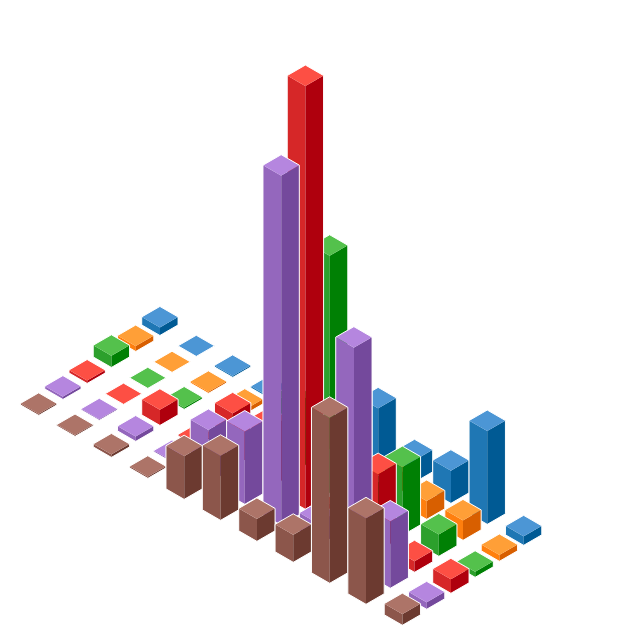
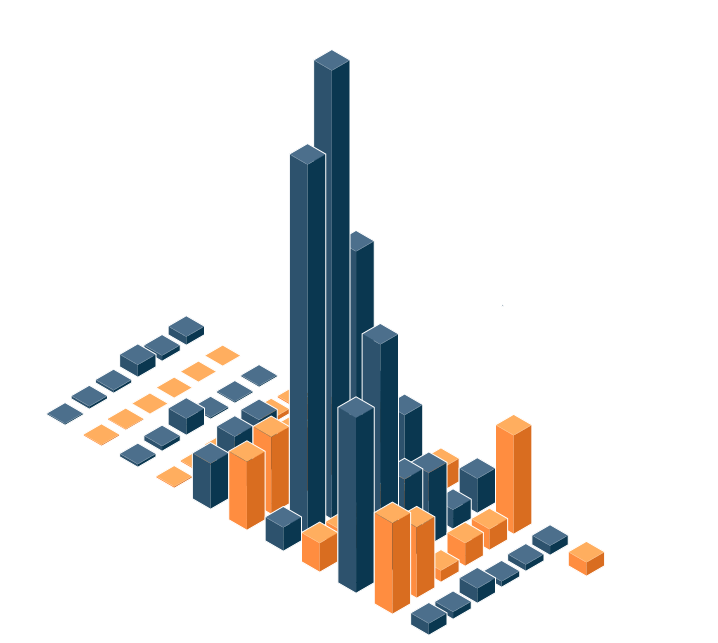
major changes

Changed region(s): [[0.0299, 0.0623, 0.8677, 0.9969]]

diff --git a/2016/isometric-backlinks/index.html b/2016/isometric-backlinks/index.html
@@ -11,6 +11,9 @@
     <script src="../lib/d3.slider.js"></script>
     <script src="../lib/d3-tip.js"></script>
     <script src="js/app.js"></script>
+    <link rel="stylesheet" href="https://maxcdn.bootstrapcdn.com/font-awesome/4.6.3/css/font-awesome.min.css">
+    <script src="//platform.twitter.com/widgets.js" charset="utf-8"></script>
+    <script async defer src="https://buttons.github.io/buttons.js"></script>
 
     <style>
         body {
@@ -34,6 +37,7 @@
 
         #slider {
             margin: auto;
+            width: 50%;
         }
 
         #desc-panel {
@@ -81,50 +85,108 @@
             font-weight: bold;
         }
 
+        .left-wrap {
+            width: 25%;
+            display: inline-block;
+        }
+
+        .right-wrap {
+            width: 70%;
+            display: inline-block;
+        }
+
+        .left-wrap span {
+            float: right;
+        }
+
+        .right-wrap select {
+            text-align: center;
+        }
+
+        b {
+            color: #ff8d40;
+        }
+
+        footer {
+            position: absolute;
+            bottom: 0;
+            left: 0;
+            background-color: #ff8d40;
+            width: 100%;
+            text-align: center;
+            z-index: 9999;
+            padding-top: 5px;
+            padding-bottom: 5px;
+        }
+
+        #desc-wrapper {
+            position: relative;
+            left: 50%;
+            top: 40%;
+            transform: translate(-50%, -50%);
+        }
+
     </style>
 
 </head>
 <body>
+<footer>
+    Made with <i class="fa fa-heart" aria-hidden="true"></i> by
+    <a href="https://twitter.com/TauOmicronMu" class="twitter-follow-button" data-show-count="false">@TauOmicronMu</a>
+    and
+    <a class="github-button" href="https://github.com/SamTebbs33" aria-label="Follow @SamTebbs33 on GitHub">SamTebbs33</a>
+</footer>
     <img id="logo" src="../res/majestic-logo-black-trans-small.png"/>
     <section id="content-area">
         <div id="content-wrap">
             <svg></svg>
             <!-- <br><br>
             <div id="slider2" class="d3-slider d3-slider-vertical"></div> -->
-            <div id="slider" class="d3-slider d3-slider-horizontal" style="width: 50%;"></div>
+            <div id="slider" class="d3-slider d3-slider-horizontal"></div>
         </div>
     </section>
     <section id="desc-panel">
-        <h1>Link projection</h1>
-        <h3>Shows <a href="https://developer-support.majestic.com/api/commands/get-back-links-history.shtml" target="_blank">backlink</a> history from December 2010 to May 2016</h3>
-        <div id="dropdown-wrapper">
-            <span>Site</span>&emsp;
-            <select id="dropdown" onchange="onDropdownChange()">
-                <option value="bitbucket.org" selected>Bitbucket</option>
-                <option value="github.com">GitHub</option>
-                <option value="amazon.co.uk">Amazon</option>
-                <option value="majestic.com">Majestic</option>
-                <option value="bbc.co.uk">BBC</option>
-                <option value="google.com">Google</option>
-                <option value="ox.ac.uk">Oxford University</option>
-                <option value="reddit.com">Reddit</option>
-            </select>
-            <br>
-            <span>Link type</span>&emsp;
-            <select id="dropdown2" onchange="onDropdownChange()">
-                <option value="TextLink">Text</option>
-                <option value="ImageLink">Image</option>
-                <option value="Redirect">Redirect</option>
-                <option value="Frame">Frame</option>
-                <option value="Mention">Mention</option>
-                <option value="NoFollow">No follow</option>
-                <option value="Deleted">Deleted</option>
-                <option value="TotalLinks" selected>Total</option>
-                <option value="CrawledPages">Crawled</option>
-                <option value="RefDomains">Ref domains</option>
-                <option value="MentionDomains">Mention domains</option>
-                <option value="DomainURLs">Domain URLs</option>
-            </select>
+        <div id="desc-wrapper">
+            <h1>Backlink History</h1>
+            <div id="dropdown-wrapper">
+                <div class="left-wrap">
+                    <span>Site</span>&emsp;
+                </div>
+                <div class="right-wrap">
+                    <select id="dropdown" onchange="onDropdownChange()">
+                        <option value="bitbucket.org" selected>Bitbucket</option>
+                        <option value="github.com">GitHub</option>
+                        <option value="amazon.co.uk">Amazon</option>
+                        <option value="majestic.com">Majestic</option>
+                        <option value="bbc.co.uk">BBC</option>
+                        <option value="google.com">Google</option>
+                        <option value="ox.ac.uk">Oxford University</option>
+                        <option value="reddit.com">Reddit</option>
+                    </select>
+                </div>
+                <br>
+                <div class="left-wrap">
+                    <span>Link type</span>&emsp;
+                </div>
+                <div class="right-wrap">
+                    <select id="dropdown2" onchange="onDropdownChange()">
+                        <option value="TextLink">Text</option>
+                        <option value="ImageLink">Image</option>
+                        <option value="Redirect">Redirect</option>
+                        <option value="Frame">Frame</option>
+                        <option value="Mention">Mention</option>
+                        <option value="NoFollow">No follow</option>
+                        <option value="Deleted">Deleted</option>
+                        <option value="TotalLinks" selected>Total</option>
+                        <option value="CrawledPages">Crawled</option>
+                        <option value="RefDomains">Ref domains</option>
+                        <option value="MentionDomains">Mention domains</option>
+                        <option value="DomainURLs">Domain URLs</option>
+                    </select>
+                </div>
+            </div>
+            <p>This visualisation represents the <b>total backlinks found</b> for a given site in each month between December 2010 and June 2016.</p>
+            <p>The <b>Site</b> dropdown lets you view different sites, and the <b>Link Type</b> lets you view different types of backlink.</p>
         </div>
     </section>
     <script src="js/projection.js"></script>

diff --git a/2016/isometric-backlinks/js/projection.js b/2016/isometric-backlinks/js/projection.js
@@ -1,13 +1,12 @@
-/**
- * Created by samuelt on 02/09/2016.
- */
 
-var isoWidth = 6, isoLength = 11;
+var isoWidth = 6, isoLength = 12;
 var dataOffset = 54;
 var data = null;
 
-d3.select('#slider').call(d3.slider().value(isoLength).axis(d3.svg.axis().orient("top").ticks(10)).min(1).max(11).step(1).on("slide", function (evt, val) {
-    isoLength = val;
+var sliderAxis = d3.svg.axis().scale(d3.time.scale().range([0, 6])).ticks(8).orient("top");
+
+d3.select('#slider').call(d3.slider().value(isoLength / 2).axis(sliderAxis).min(0.5).max(6).step(0.5).on("slide", function (evt, val) {
+    isoLength = val * 2;
     draw();
 }));
 
@@ -27,10 +26,10 @@ function onDropdownChange() {
 }
 
 function draw() {
-    var L, PAD, iso_data, enter_pipedons, height, iso_layout, isometric, parallelepipedon, path_generator, pipedons, svg, vis, width, y_color;
+    var L, PAD, iso_data, enter_pipedons, height, iso_layout, isometric, parallelepipedon, path_generator, pipedons, svg, vis, width, id_colour;
 
-    var width = $(document).width() * 0.7;
-    var height = $(document).height() * 0.7;
+    width = $(document).width() * 0.7;
+    height = $(document).height() * 0.7;
 
     var svg = d3.select("svg").attr("width", width)
         .attr("height", height);;
@@ -94,7 +93,9 @@ function draw() {
             }).join('L') + 'z';
     };
 
-    y_color = d3.scale.category10();
+    id_colour = function (id) {
+        return Math.floor(id / isoWidth) % 2 === 0 ? "#2d526d" : "#ff8d40"
+    };
     L = 30;
     PAD = 9;
 
@@ -105,12 +106,12 @@ function draw() {
             if (val.count > max) max = val.count;
         }
     }
-    console.log(max);
 
     iso_data = d3.range(isoLength * isoWidth).map(function(i) {
         var elem = data[i + dataOffset];
         if(!!elem) {
             return {
+                id: i,
                 x: (i % 6) * L + 200,
                 y: Math.floor(i / 6) * L + (2 * i) - 165,
                 dx: L - PAD,
@@ -119,7 +120,7 @@ function draw() {
                 count: !!elem ? elem.count : 0,
                 dz: !!elem ? scale(elem.count, max + 1,  height / 10) : 0
             };
-        } else return {x: -1, y: -1, dx: -1, dy: -1, dz: -1};
+        } else return {id: 0, x: -1, y: -1, dx: -1, dy: -1, dz: -1};
     });
 
     iso_layout(iso_data, parallelepipedon);
@@ -151,7 +152,7 @@ function draw() {
             return path_generator(d.iso.face_left);
         },
         fill: function(d) {
-            return y_color(d.x);
+            return id_colour(d.id);
         }
     });
 

diff --git a/2016/site-host-map/index.html b/2016/site-host-map/index.html
@@ -4,7 +4,11 @@
     html, body {
         margin: 0;
         padding: 0;
-        overflow: hidden
+        overflow: hidden;
+        font-family: Arial, sans-serif;
+    }
+
+    footer, #desc-area {
         color: #fff;
     }
 
@@ -38,12 +42,25 @@
         background-color: #2D526D;
         position: absolute;
         right: 0;
+        text-align: center;
     }
 
     #logo {
         position: absolute;
         top: 1%;
         left: 1%;
+    }
+
+    footer {
+        position: absolute;
+        bottom: 0;
+        left: 0;
+        background-color: #ff8d40;
+        width: 100%;
+        text-align: center;
+        z-index: 9999;
+        padding-top: 5px;
+        padding-bottom: 5px;
     }
 
 </style>
@@ -54,11 +71,21 @@
     <script src="../lib/topojson.min.js"></script>
     <script src="../lib/datamap.js"></script>
     <script src="js/d3.slider.js"></script>
+    <link rel="stylesheet" href="https://maxcdn.bootstrapcdn.com/font-awesome/4.6.3/css/font-awesome.min.css">
+    <script src="//platform.twitter.com/widgets.js" charset="utf-8"></script>
+    <script async defer src="https://buttons.github.io/buttons.js"></script>
     <!-- <script src="lib/papaparse.min.js"></script>
     <script src="lib/FileSaver.min.js"></script>
     <script src="js/convert.js"></script> -->
 </head>
 <body>
+<footer>
+    Made with <i class="fa fa-heart" aria-hidden="true"></i> by
+    <a href="https://twitter.com/TauOmicronMu" class="twitter-follow-button" data-show-count="false">@TauOmicronMu</a>
+    and
+    <a class="github-button" href="https://github.com/SamTebbs33" aria-label="Follow @SamTebbs33 on GitHub">SamTebbs33</a>
+</footer>
+
 
 <img id="logo" src="../res/majestic-logo-black-trans-small.png"/>
 
@@ -67,7 +94,6 @@
     <div id="slider" class="d3-slider-horizontal"></div>
 </section>
 <section id="desc-area">
-sgdfsgsdfg
 </section>
 
 <script src="js/app.js"></script>

diff --git a/2016/index.html b/2016/index.html
@@ -10,6 +10,8 @@
             background-color: #fff;
             color: #fff;
             overflow: hidden;
+            overflow-y: hidden;
+            overflow-x: hidden;
         }
 
         header {
@@ -77,6 +79,10 @@
     <link href="font-awesome.min.css" rel="stylesheet">
 
     <link href="template/generic.css" rel="stylesheet" type="text/css"/>
+
+    <link rel="stylesheet" href="https://maxcdn.bootstrapcdn.com/font-awesome/4.6.3/css/font-awesome.min.css">
+    <script src="//platform.twitter.com/widgets.js" charset="utf-8"></script>
+    <script async defer src="https://buttons.github.io/buttons.js"></script>
 </head>
 
 <body>
@@ -85,7 +91,10 @@
 </header>
 
 <footer>
-    Made with <i class="fa fa-heart" aria-hidden="true"></i> by TauOmicronMu & SamTebbs33
+    Made with <i class="fa fa-heart" aria-hidden="true"></i> by
+    <a href="https://twitter.com/TauOmicronMu" class="twitter-follow-button" data-show-count="false">@TauOmicronMu</a>
+    and
+    <a class="github-button" href="https://github.com/SamTebbs33" aria-label="Follow @SamTebbs33 on GitHub">SamTebbs33</a>
 </footer>
 
 <section id="pages">
@@ -97,7 +106,7 @@
 
         <!-- SAM! TO ADD A NEW SLIDER JUST ADD AN IMG FOR IT AND ADD A LINK TO THE END OF THE ARRAY =) -->
         <img src="res/force-graph.png" data-caption="Page Link Network">
-        <img src="res/majestic-logo-black-trans-small.png" data-caption="Site Host Map">
+        <img src="res/map.png" data-caption="Site Host Map">
         <img src="res/iso_backlinks.png" data-caption="Isometric Backlinks">
     </div>
 </section>

diff --git a/2016/isometric-backlinks/css/stylesheet.css b/2016/isometric-backlinks/css/stylesheet.css
@@ -6,3 +6,15 @@
     stroke: white;
     fill: none;
 }
+
+select {
+    border-radius: 4px;
+    background: #2d526d;
+    text-overflow: "";
+    color: #fff;
+    padding: 7px 14px;
+    border: solid 1px rgba(255, 255, 255, 0.2);
+    box-sizing: border-box;
+    margin-bottom: 5px;
+    text-align: justify;
+}
